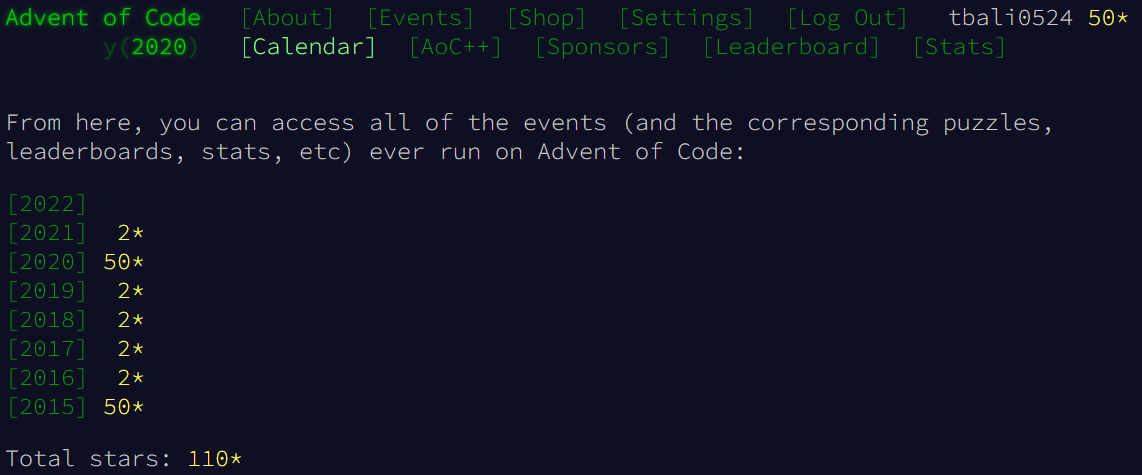
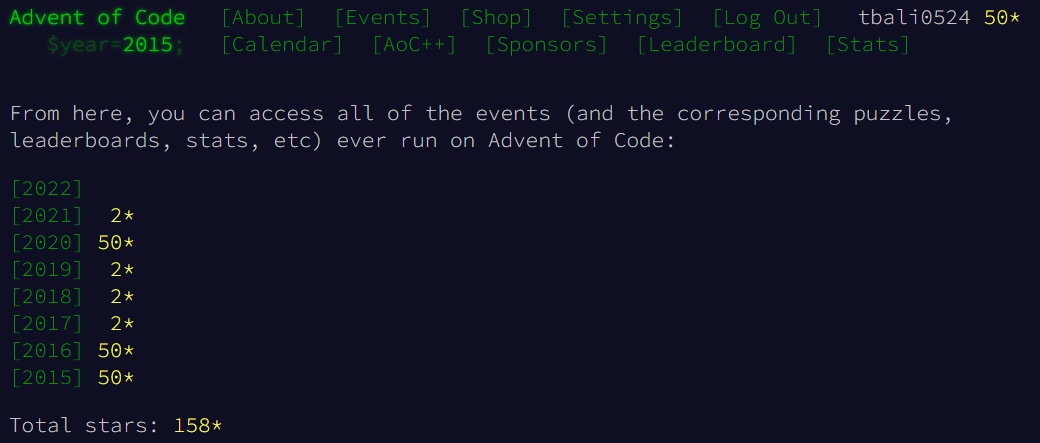
aoc update

diff --git a/README.md b/README.md
@@ -23,9 +23,9 @@ A collection of my coding-related activities.
     * Only recently started _(~300 katas solved)_.
     * Using it to practice simple puzzles and one-liners in `PHP` and `Rust`. My personal FP challenge: avoid `for` loops in my solutions.
 * [Project Euler](https://projecteuler.net/) - _([profile](https://projecteuler.net/progress=TBali) is hidden)_
-    * Only recently started _([<5% of the puzzles](https://projecteuler.net/profile/TBali.png) solved)_.
+    * Only recently started _([<10% of the puzzles](https://projecteuler.net/profile/TBali.png) solved)_.
 * [Advent Of Code](https://adventofcode.com/) - _(profile is hidden)_
-    * Solved [2 seasons](pic/aoc.png) post-event (I used 2-3 hints from reddit).
+    * Solved [3 seasons](pic/aoc.png) post-event (I used 4-5 hints from reddit).
 * [Google CodeJam](https://codingcompetitions.withgoogle.com/codejam)
     * Participated in 2021, made it only to [round 2](pic/codejam21cert.png)... :-(
 * Hackerranks - (_[my profile](https://www.hackerrank.com/TBali))_
